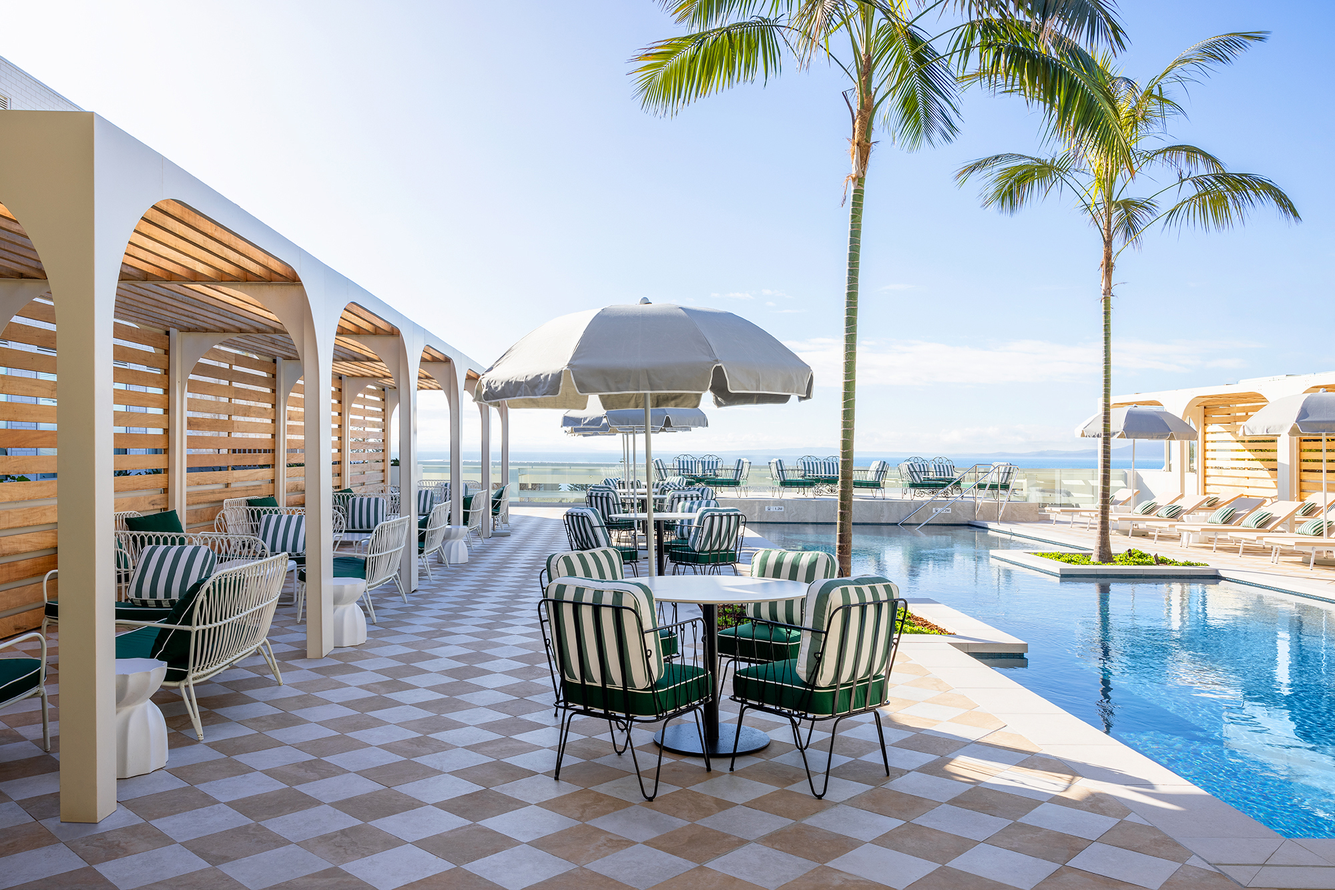
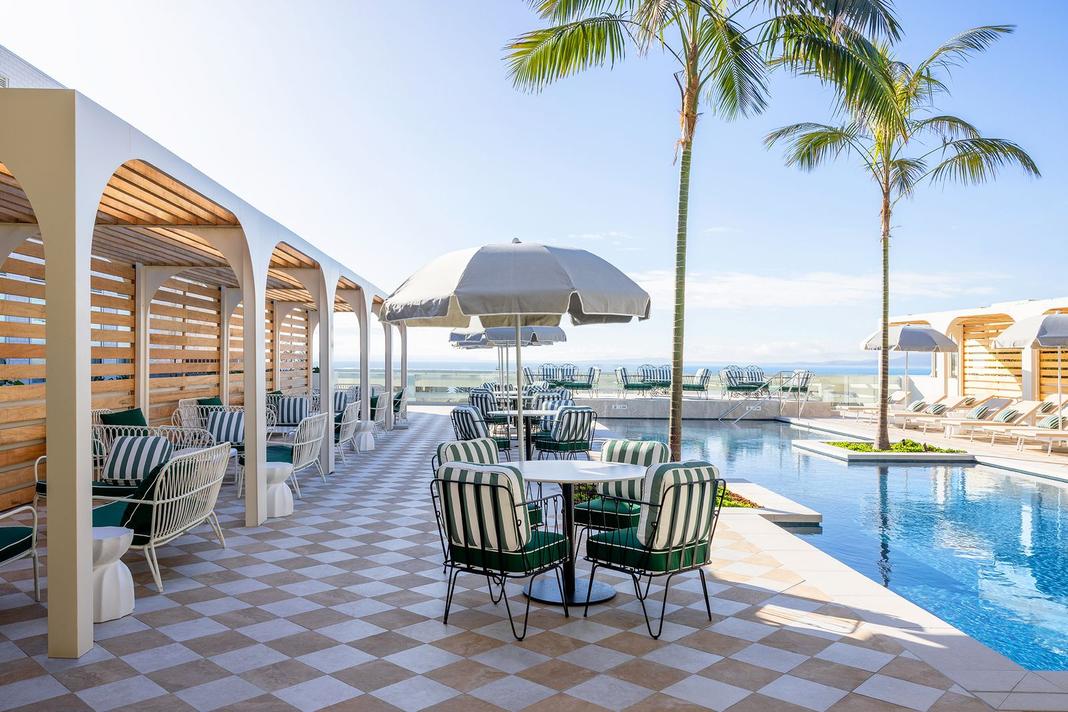
Search visibility: www canonical, sitemap, robots, 404 page, structured data
- Canonical, og:url and sitemap use the www address the site actually lives on
- /sitemap.xml lists every page; robots.txt points to it and keeps /admin out
- Real 404 page (Cloudflare serves it with a 404 status instead of the homepage)
- Person + ProfessionalService + WebSite structured data with sameAs profiles
- noindex header for /admin and the pages.dev copies
- Alt text on Writing tiles; three oversized article photos shrunk (2.4 MB -> ~300 KB)
- Bottom-nav category links and About's 'Read my writing' now go to /writing/

Claude-Session: https://claude.ai/code/session_01FhmM5V87fF6CexXMihWF3Q

diff --git a/src/pages/sitemap.xml.js b/src/pages/sitemap.xml.js
@@ -1,0 +1,19 @@
+// The sitemap: a list of every page for search engines, at /sitemap.xml.
+// Add a line here when a new page goes on the site.
+const pages = [
+  { path: '/', priority: '1.0' },
+  { path: '/writing/', priority: '0.9' },
+  { path: '/work-with-me/', priority: '0.9' },
+  { path: '/about/', priority: '0.8' },
+  { path: '/artist-in-residence/', priority: '0.7' },
+  { path: '/dj-in-residence/', priority: '0.5' },
+];
+
+export function GET({ site }) {
+  const today = new Date().toISOString().slice(0, 10);
+  const urls = pages
+    .map((p) => `  <url><loc>${new URL(p.path, site).href}</loc><lastmod>${today}</lastmod><priority>${p.priority}</priority></url>`)
+    .join('\n');
+  const xml = `<?xml version="1.0" encoding="UTF-8"?>\n<urlset xmlns="http://www.sitemaps.org/schemas/sitemap/0.9">\n${urls}\n</urlset>\n`;
+  return new Response(xml, { headers: { 'Content-Type': 'application/xml; charset=utf-8' } });
+}
